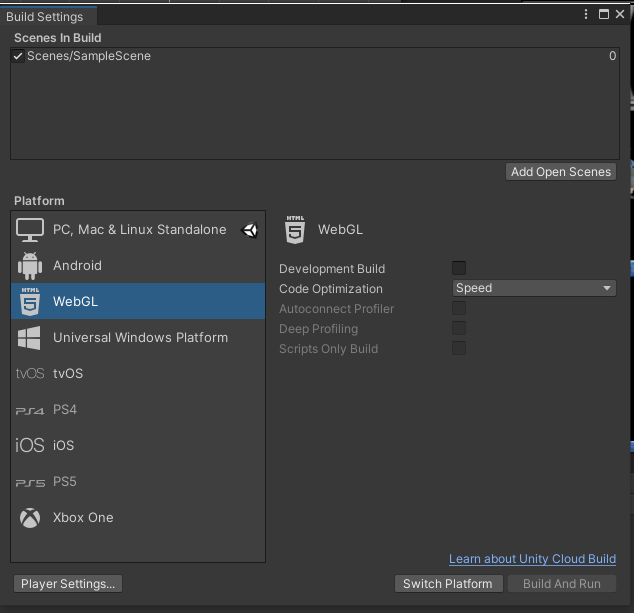
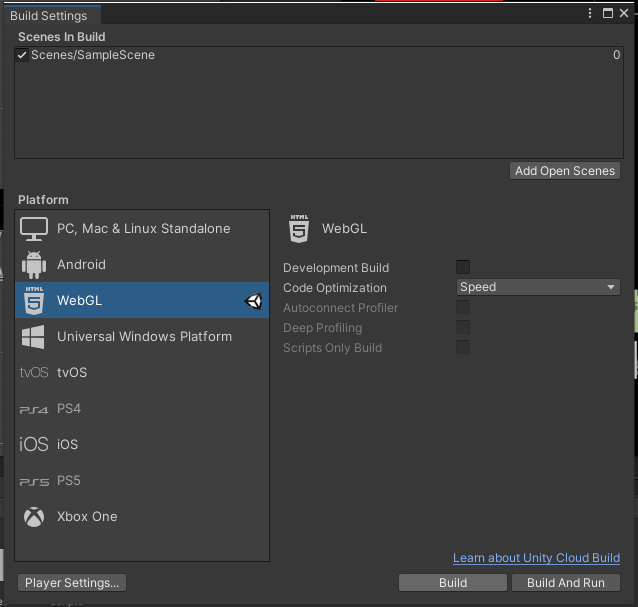
update_WebGL_1207

diff --git a/Code_pages/Unity/Unity_WebGL.html b/Code_pages/Unity/Unity_WebGL.html
@@ -41,7 +41,15 @@
             <p>使用Unity WebGL，把我們做好的遊戲上傳至Unity，變成網頁遊戲。</p>
             <p>WebGL程式由JavaScript編寫的控制代碼和OpenGL Shafing Language(GLSL)編寫的著色器程式碼組成。</p>
             <h2>步驟一:從Unity輸出WebGL</h2>
-            <p>開啟Unity hub，確定自己目前用的版本是否有安裝WebGL。</p>
+            <p>開啟Unity hub，確定自己目前用的版本是否有安裝WebGL<img src="../../Photos/code_pic/Unity_WebGL/1.png"></p>
+            <p>建立專案<img src="../../Photos/code_pic/Unity_WebGL/2.png"></p>
+            <p>到File->Buliding Setting->WebGL，點選Bulid點選Bulid<img src="../../Photos/code_pic/Unity_WebGL/3.png"><img src="../../Photos/code_pic/Unity_WebGL/4.png"></p>
+            <p>以上步驟都好了之後，我們Bulid到指定的資料夾，這時我們就會看到index.html檔案<img src="../../Photos/code_pic/Unity_WebGL/5.png">接著我們放到自己的網站上!</p>
+            <br/>
+            <h2>步驟二:將Unity掛在我們的網站上面</h2>
+            <p>先把剛剛的資料夾複製到我們網站的code裡<img src="../../Photos/code_pic/Unity_WebGL/6.png"></p>
+            <p>我們改寫裡面的內容<img src="../../Photos/code_pic/Unity_WebGL/7.png"></p>
+            <p>最後github上傳到gitpage上，我們就可以看到結果<img src="../../Photos/code_pic/Unity_WebGL/10.png"></p>
             
         </div>
     </div>
